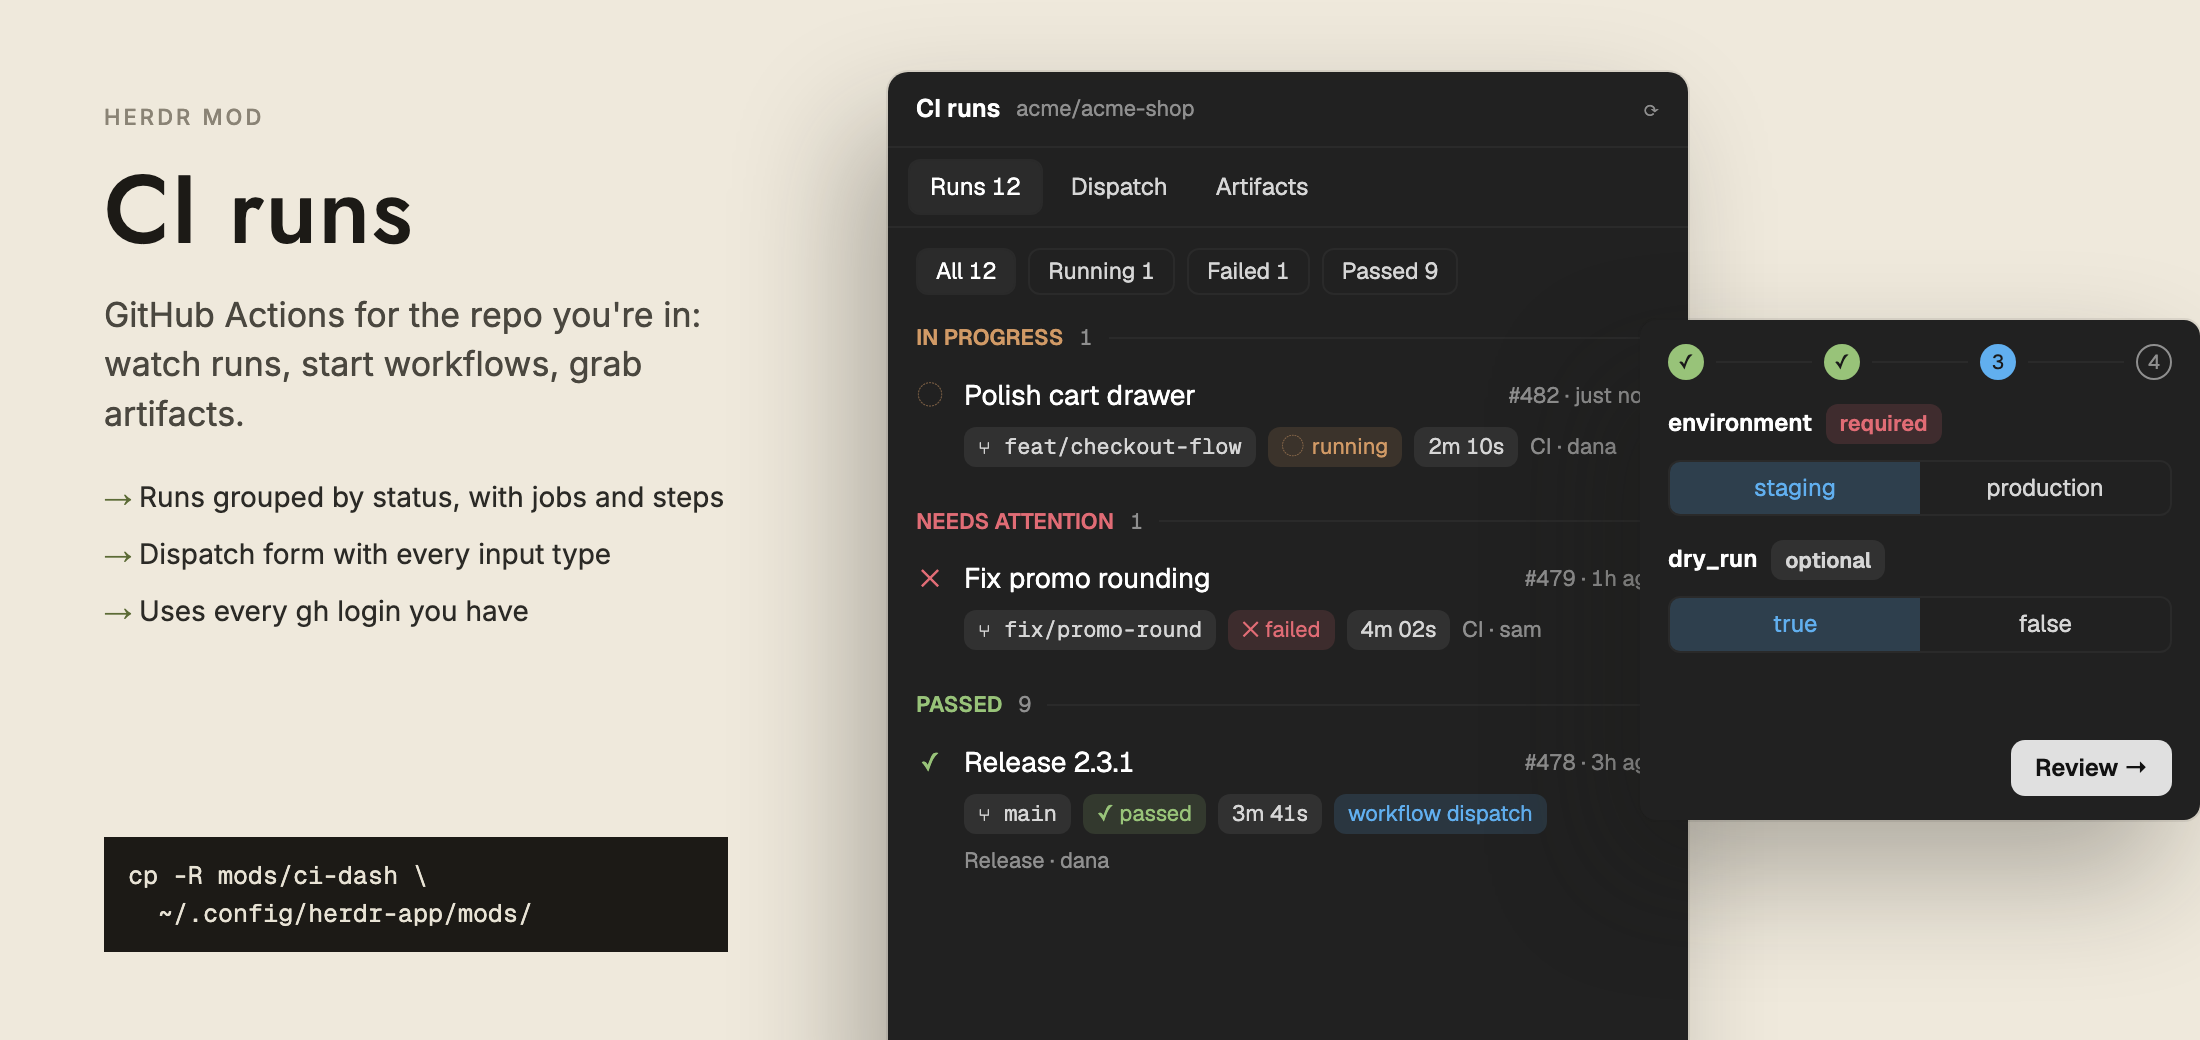
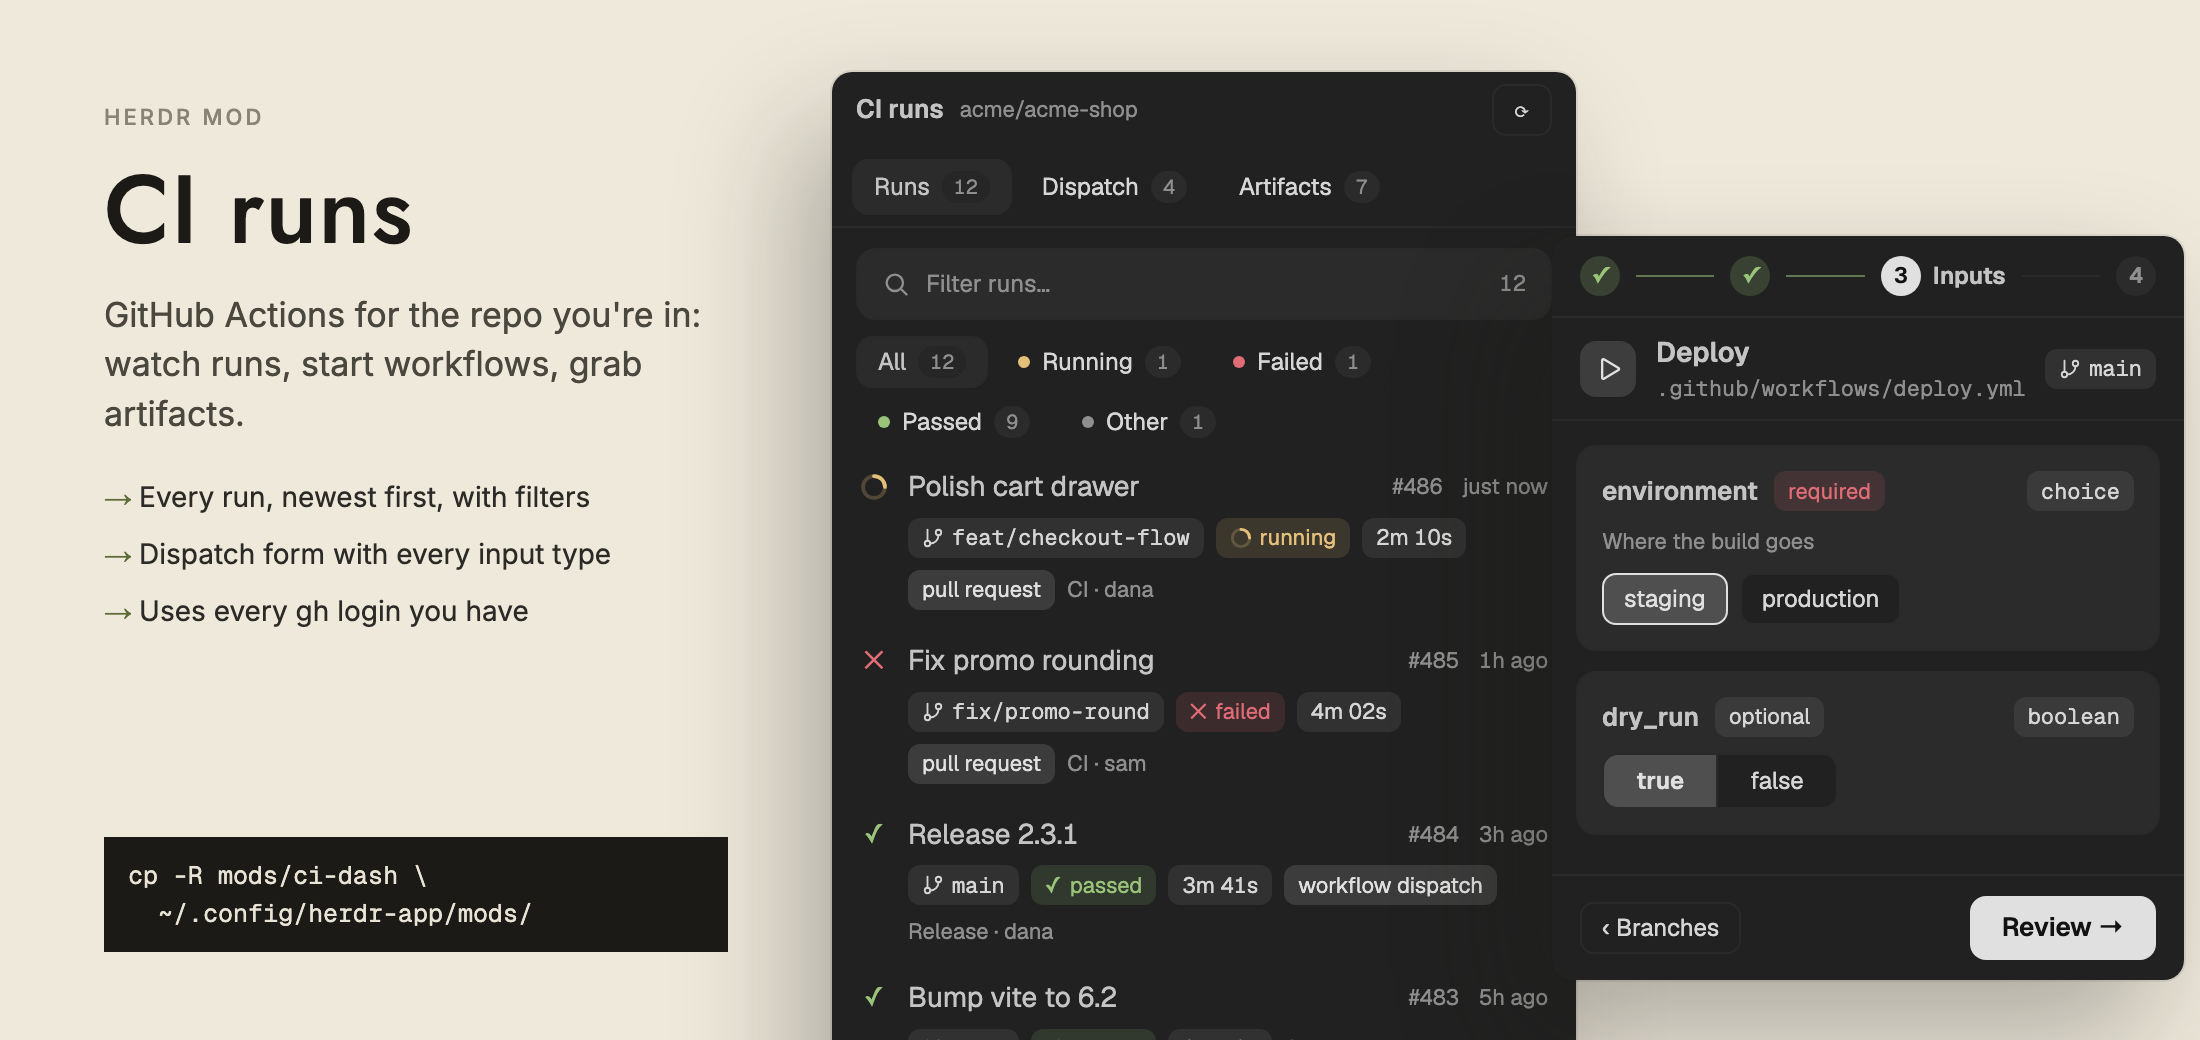
Match the CI runs screenshot to the mod
Runs show in one newest-first list with filter chips, not in sections, and the
dispatch form is drawn as dispatch.js draws it. The README says the same.

diff --git a/mods/ci-dash/README.md b/mods/ci-dash/README.md
@@ -30,8 +30,8 @@ Or on its own: `herdr-app do tab.new --name CI --mod ci-dash`, or
 
 ## Tabs
 
-- **Runs:** the 30 latest runs grouped as In progress, Needs attention, Passed and Other, with
-  a filter box and status chips. Click a run for its jobs and steps, **Open** in the
+- **Runs:** the 30 latest runs in one list, newest first, with a filter box and chips
+  (Running, Failed, Passed, Other) that narrow it. Click a run for its jobs and steps, **Open** in the
   browser, **Cancel** or **Rerun**. Running runs refresh every 5 s, and a notification
   fires when one you watched finishes.
 - **Dispatch:** pick a workflow that allows `workflow_dispatch`, a branch, fill its inputs,
